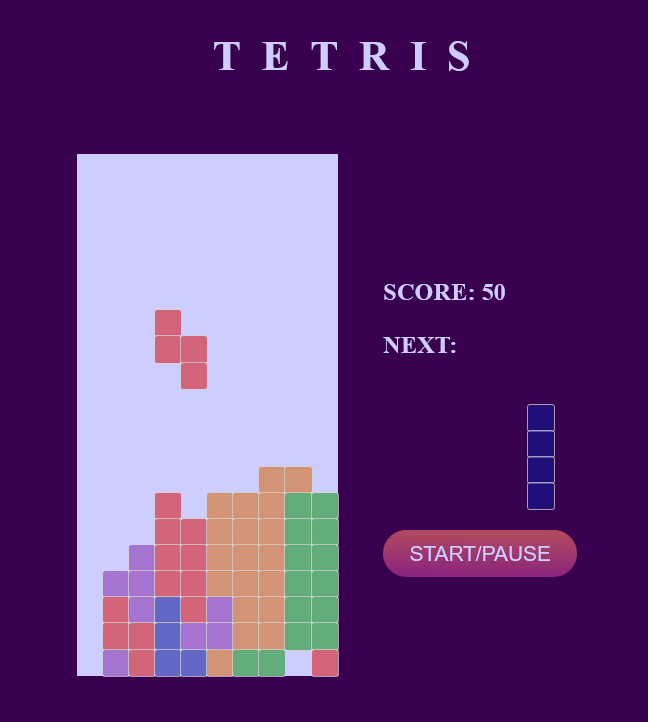
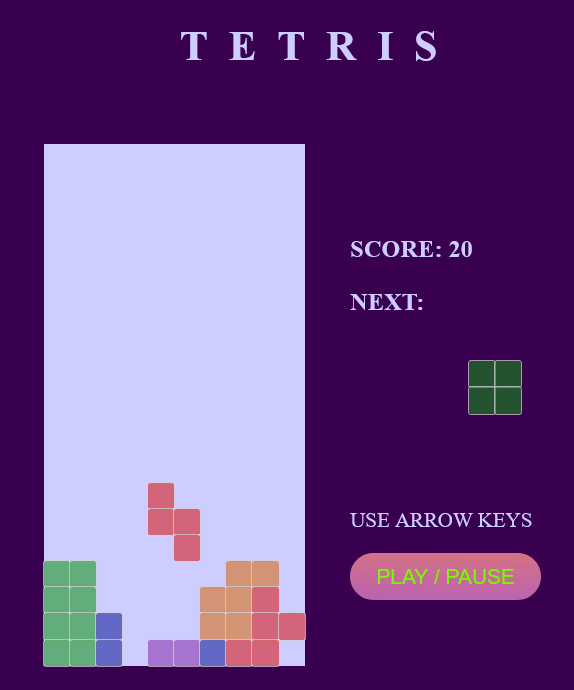
Basic web project clean-up: Tetris

diff --git a/index.html b/index.html
@@ -189,7 +189,7 @@
         </div>
         <div class="project-container project-card">
           <img
-                  src="/tetris/assets/images/tetris.png"
+                  src="tetris/assets/images/tetris.png"
                   alt="tetris project"
                   loading="lazy"
                   class="project-pic"

diff --git a/tetris/index.html b/tetris/index.html
@@ -263,7 +263,10 @@
         <div></div>
         <div></div>
       </div>
-      <button id="start" class="game-button">START/PAUSE</button></td>
+      <div>
+        <p>USE ARROW KEYS</p>
+      </div>
+      <button id="start" class="game-button"> PLAY / PAUSE</button></td>
 
   </tr>
 </table>

diff --git a/tetris/assets/css/style.css b/tetris/assets/css/style.css
@@ -109,3 +109,7 @@ h1 {
 .game-button:focus:not(:active) {
     box-shadow: rgb(108, 0, 162) 0 0 0 .125em;
 }
+
+.use-keys-pic {
+    width: 50%;
+}
